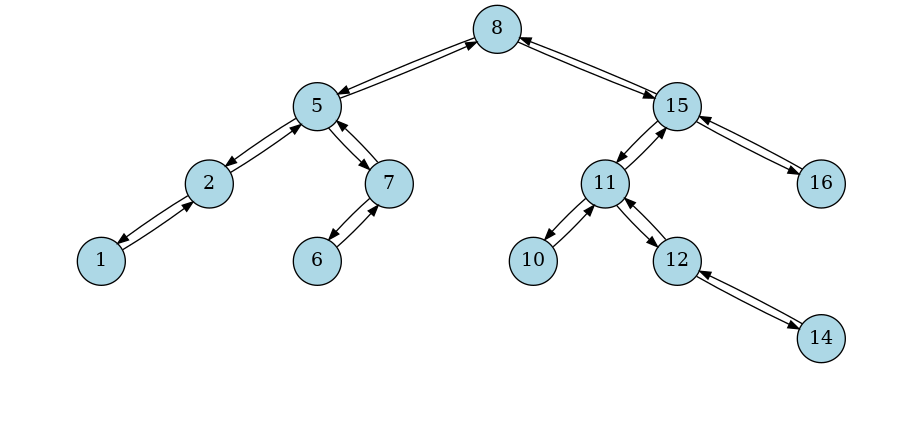
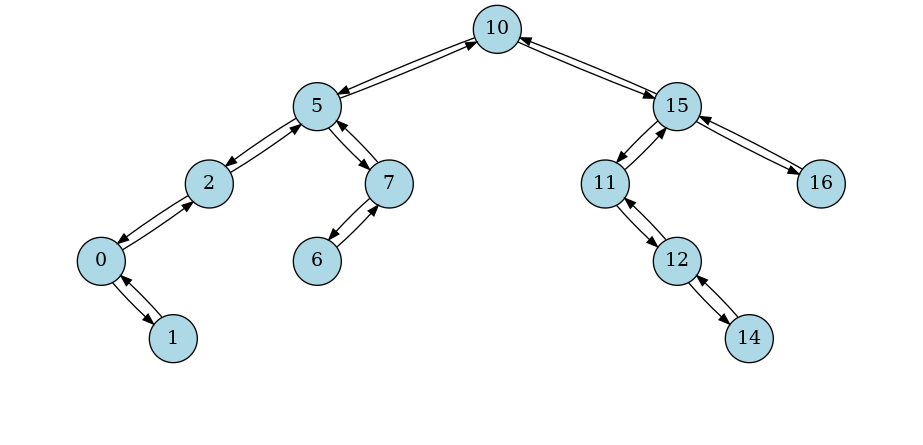
Kämpa...

diff --git a/kmom07/tree/bst.py b/kmom07/tree/bst.py
@@ -81,13 +81,13 @@ class BinarySearchTree:
 
     @classmethod
     def _remove(cls, node, key):
-        print("*")
+        #print("*")
         if node is None:
             return None, None
         #Är ett löv
         elif node.right is None and node.left is None:
             if node.is_right_child():
-                print("Här")
+                #print("Här")
                 node.parent.right=None
             else:
                 node.parent.left=None
@@ -109,13 +109,19 @@ class BinarySearchTree:
                 node.parent.left = node.left
                 node.left.parent=node.parent
             return node.left, node.value        
+        #Har 2 barn
         else:
             deleted_value=node.value
-            if node.left is None:
-                return node.right, deleted_value
-            if node.right is None:
-                return node.left, deleted_value
+            #if node.left is None:
+            #    return node.right, deleted_value
+            #if node.right is None:
+            #    return node.left, deleted_value
             succ = cls._find_succ(cls,node.right)
+            print("Successor: "+str(succ.key))
+            node.key, node.value=succ.key, succ.value
+            succ.parent.left=succ.right
+            #succ.right.parent=succ.parent
+           
             if succ.parent is not None:
                 succ.parent.left=succ.right
             else:
@@ -126,8 +132,8 @@ class BinarySearchTree:
             #node=succ
             #succ.parent.left=succ.right
             #deleted_value=node.value
-            node.key, node.value=succ.key, succ.value
-            node.right, _=cls._remove(node.right, succ.key)
+            
+            #node.right, _=cls._remove(node.right, succ.key)
             del succ
             #succ.parent = node.parent
         return node, deleted_value
@@ -189,6 +195,6 @@ if __name__== "__main__":
     #bst.inorder_traversal_print()
     #treevizer.to_png(bst.root)
     #print(bst.remove(5))
-    print(bst.remove(0))
+    print(bst.remove(8))
     #bst.inorder_traversal_print()
     treevizer.to_png(bst.root, png_path="tree2.png")
